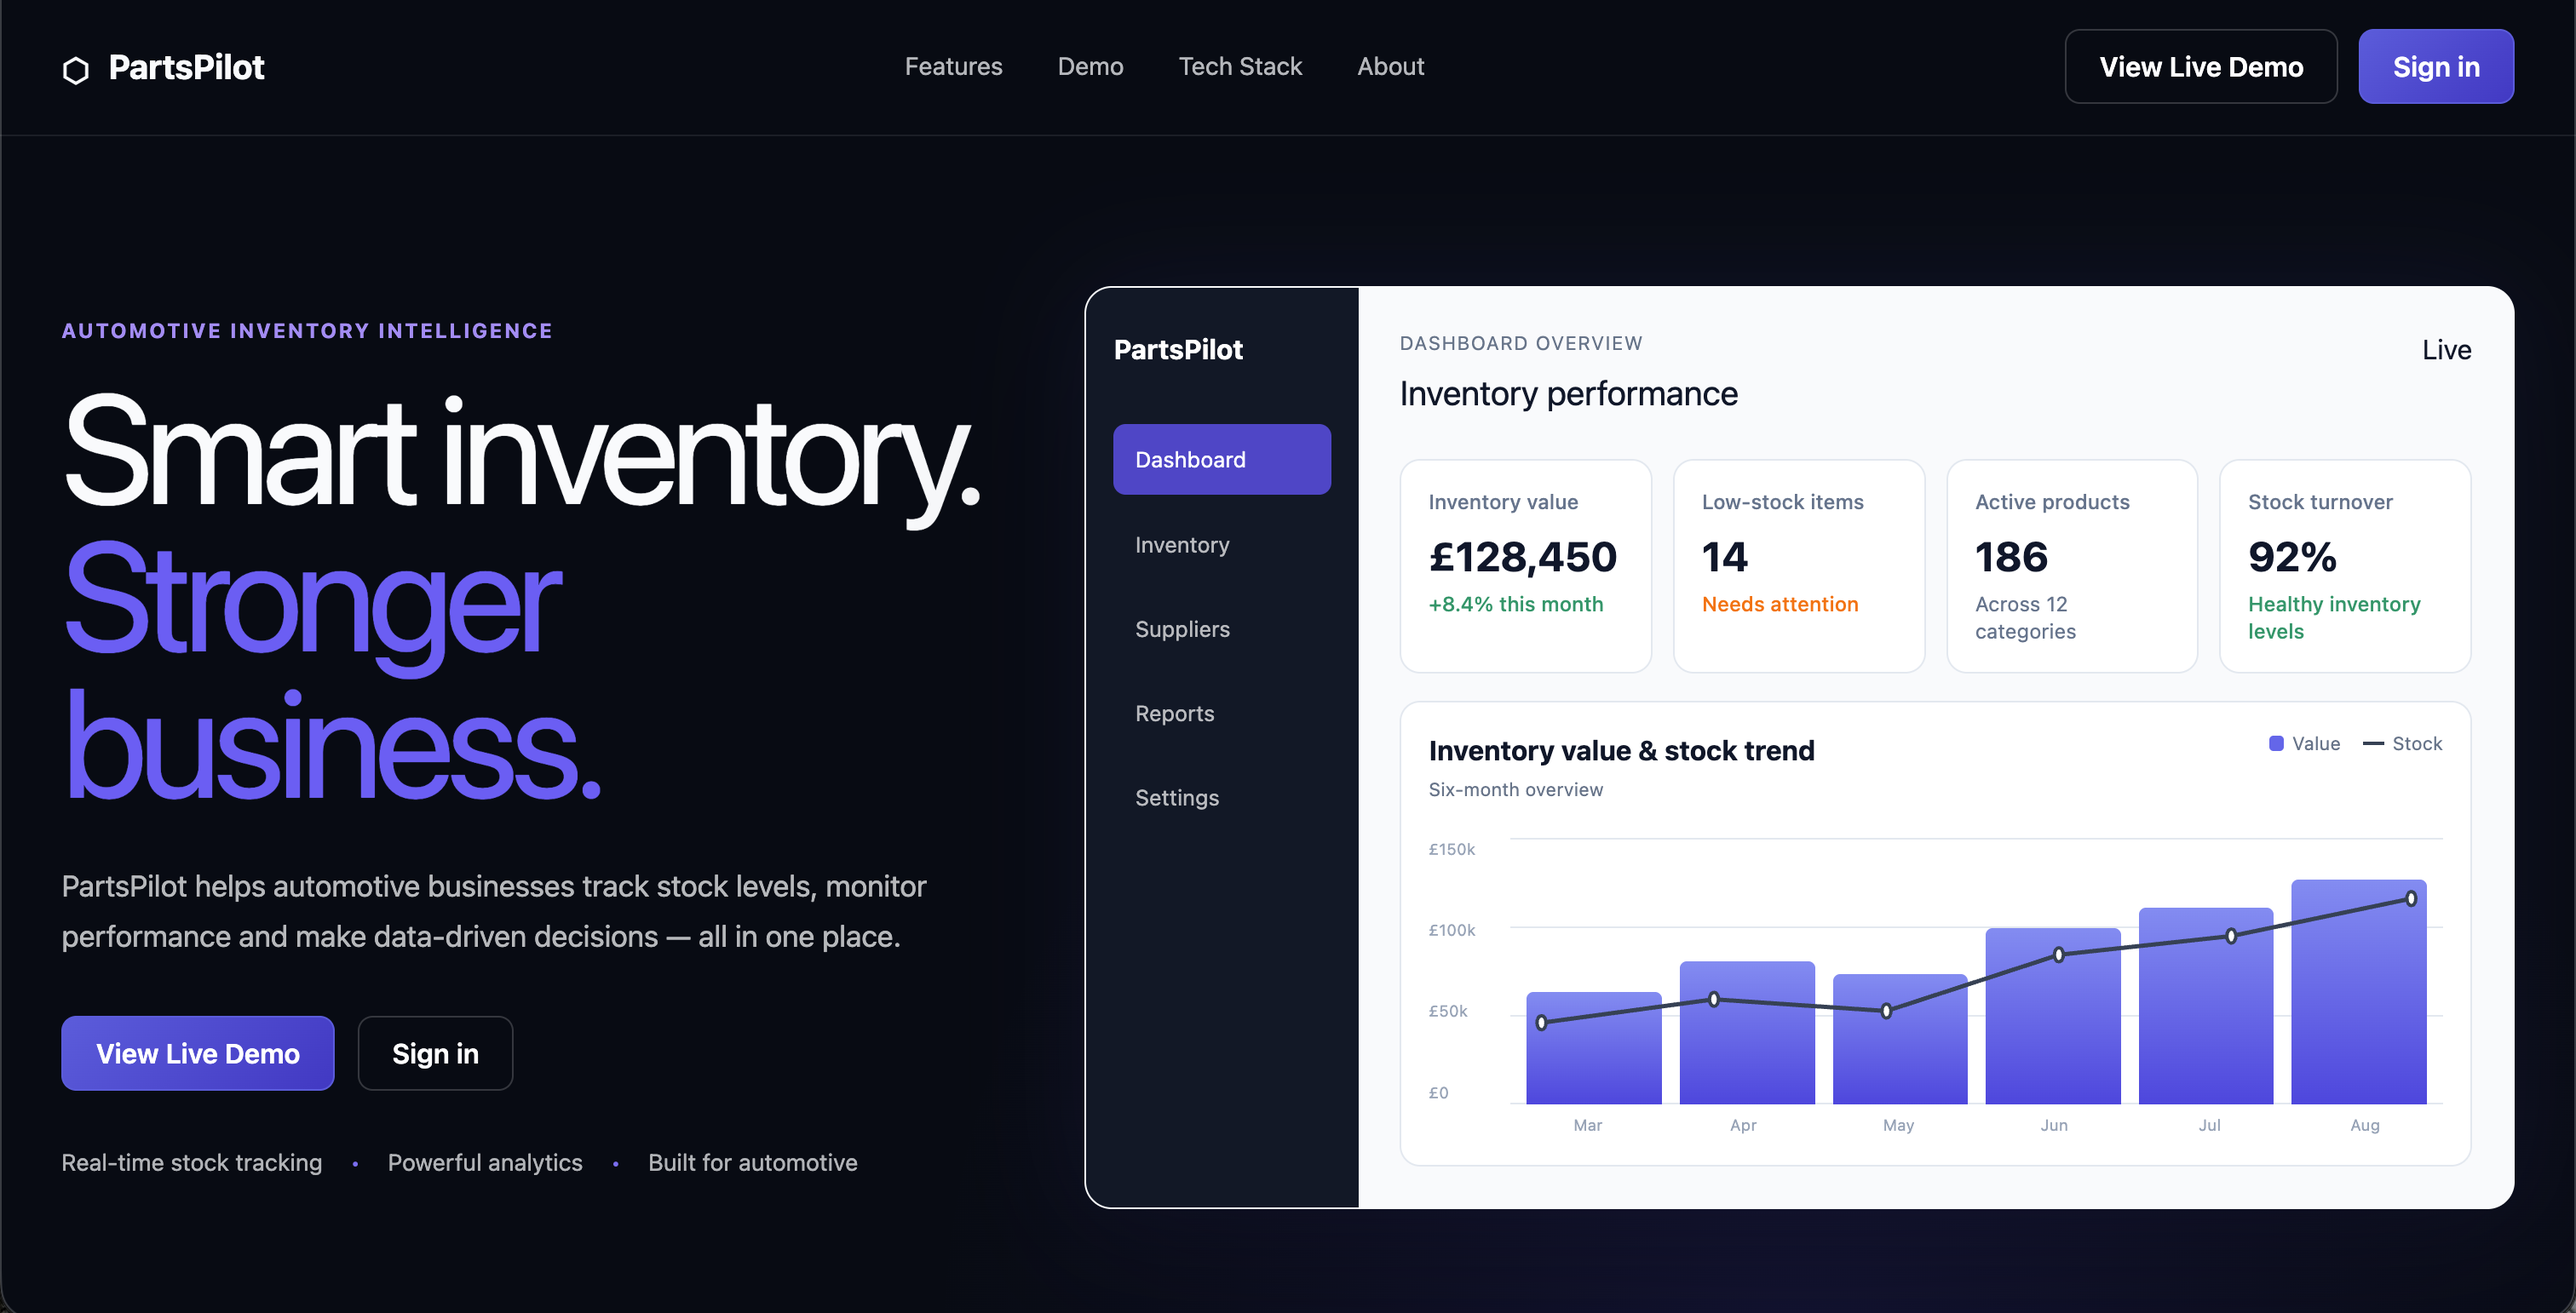
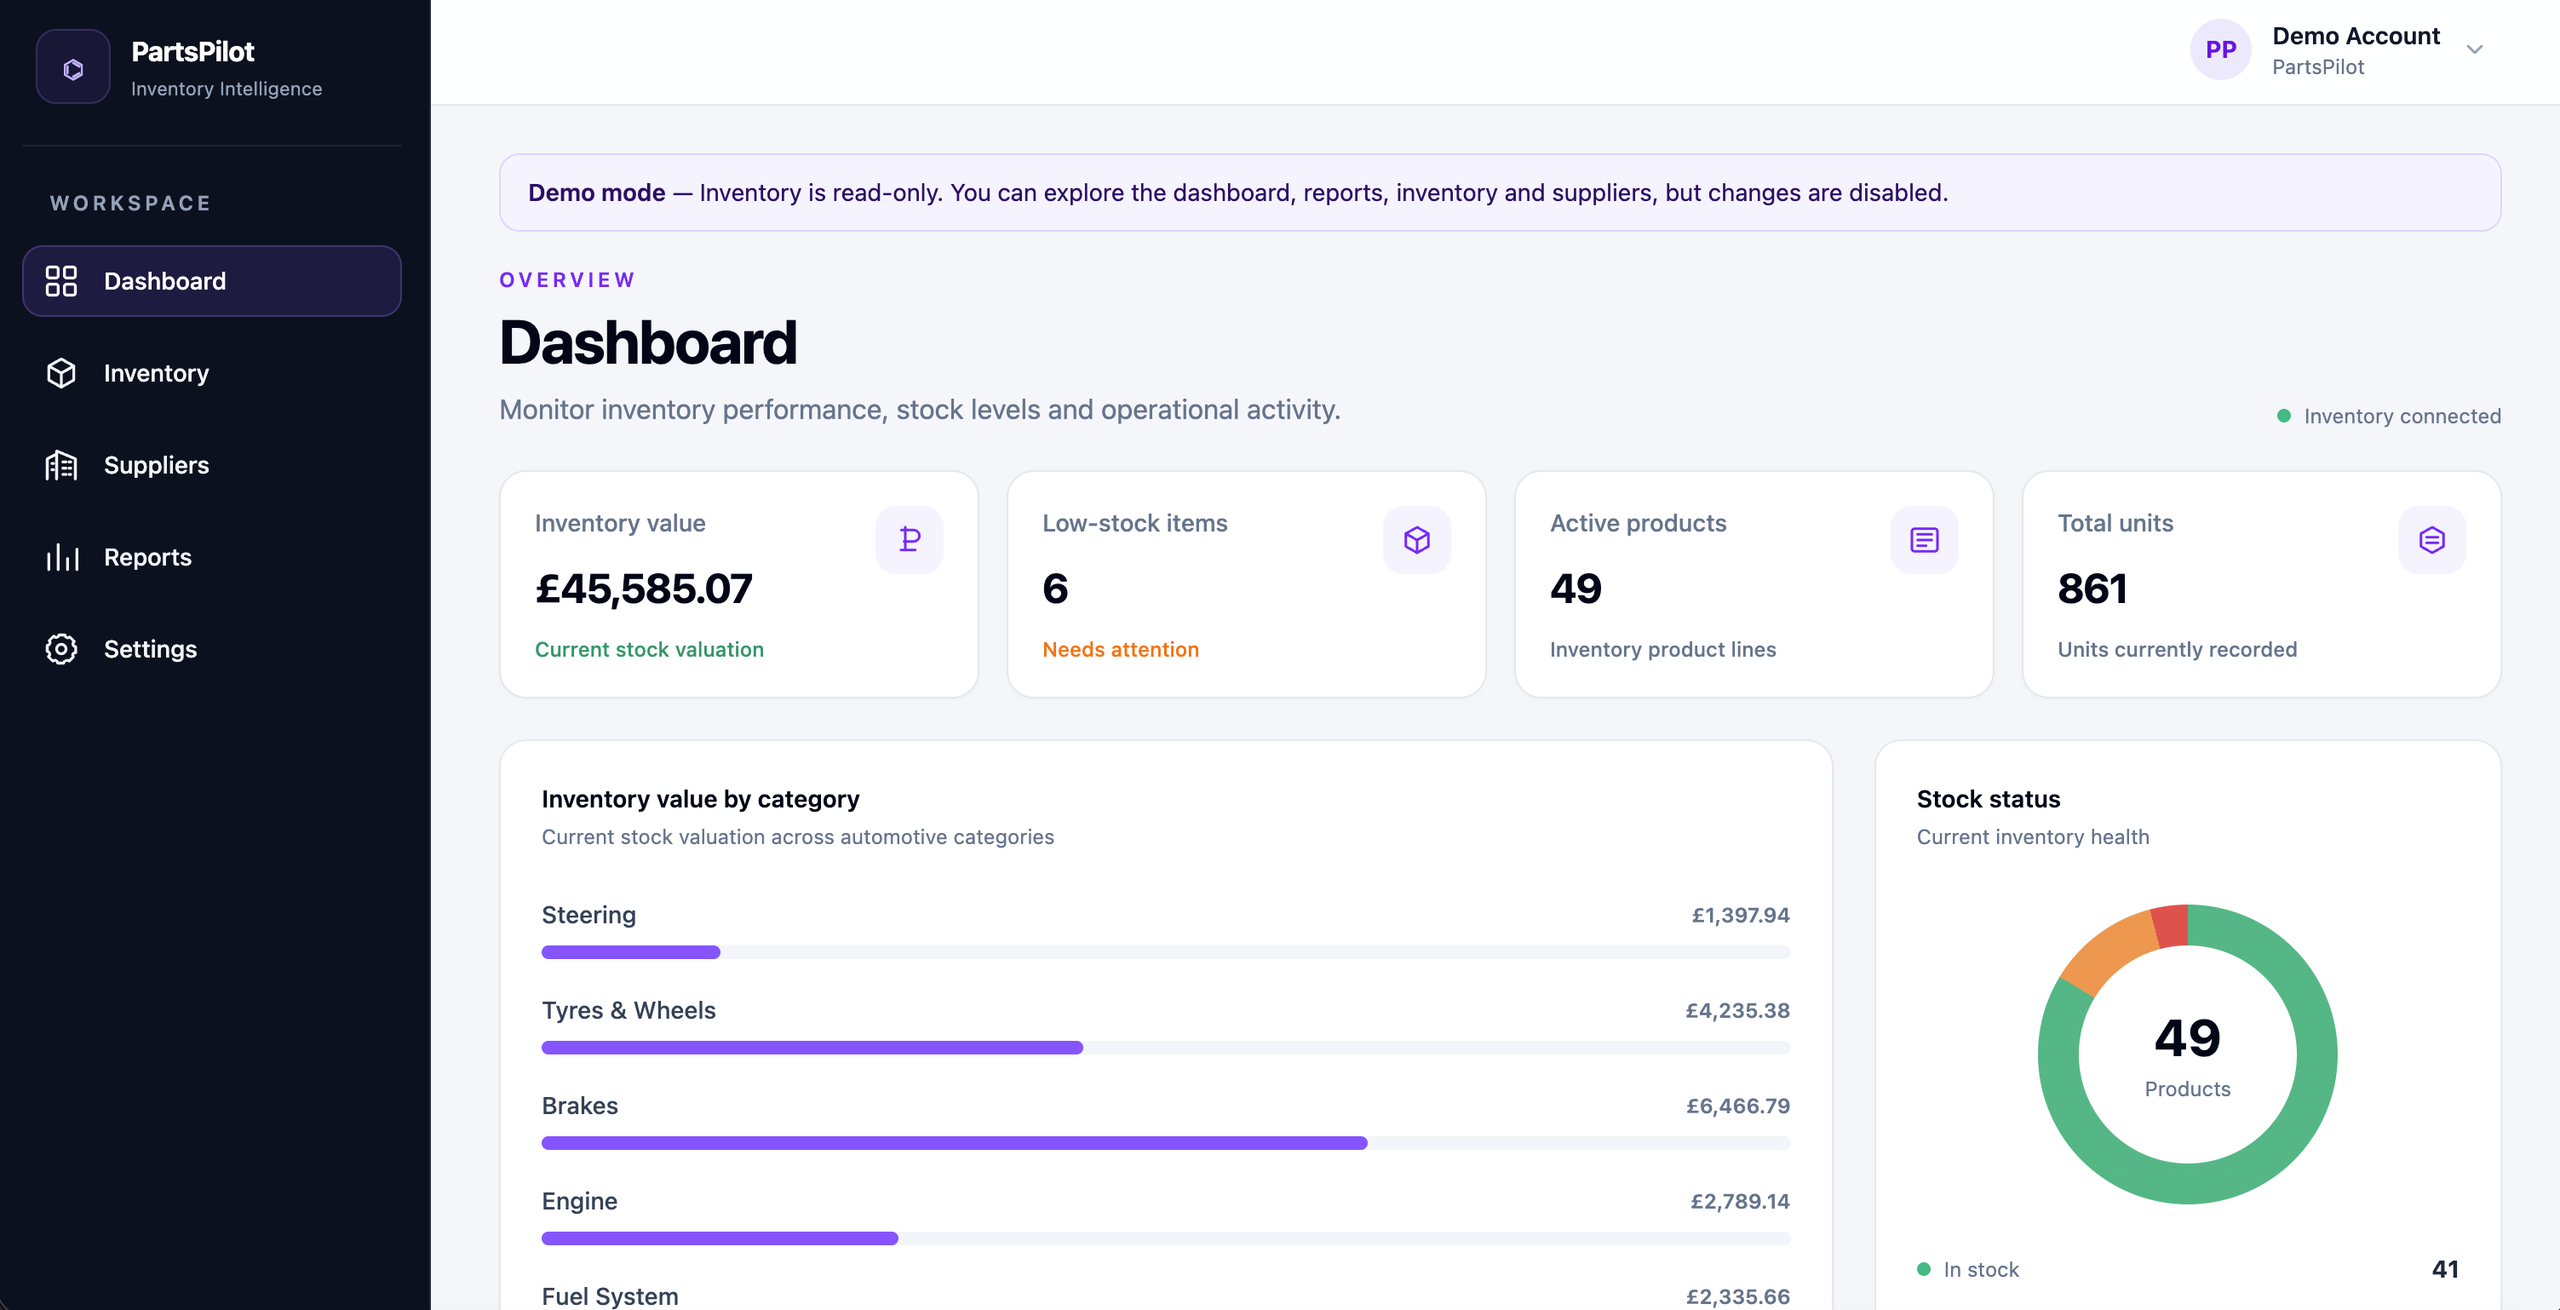
feat: update portfolio case studies

diff --git a/src/data/projects.js b/src/data/projects.js
@@ -41,7 +41,12 @@ export const projects = [
     github: "",
     demo: "https://www.irisoak.dev",
     image: "/screenshots/irisoak-homepage.png",
-    images: ["/screenshots/irisoak-homepage.png"],
+    images: [
+      "/screenshots/irisoak-homepage.png",
+      "/screenshots/irisoak-services.png",
+      "/screenshots/irisoak-selected-work.png",
+      "/screenshots/irisoak-contact-page.png",
+    ],
   },
 
   {
@@ -50,7 +55,7 @@ export const projects = [
     tier: "primary",
     title: "PartsPilot",
     category: "Automotive · Full-Stack",
-    status: "Feature-complete · Maintenance",
+    status: "Production demo · Maintenance",
     summary:
       "An automotive inventory platform with authenticated workflows, stock monitoring, reporting and operational analytics.",
     description:
@@ -70,6 +75,8 @@ export const projects = [
       "Power BI",
       "GitHub Actions",
       "Vercel",
+      "Railway",
+      "Production demo",
     ],
     tech: [
       "Next.js",
@@ -255,49 +262,6 @@ export const projects = [
       "/screenshots/pulse-health-endpoint.png",
     ],
   },
-
-  {
-    slug: "ai-hr-support-assistant",
-    featured: false,
-    tier: "primary",
-    title: "AI HR Support Assistant",
-    category: "AI Workflow · Full-Stack",
-    status: "Portfolio-ready MVP",
-    summary:
-      "An AI-assisted HR workflow for ticket classification, response drafting and administrative case management.",
-    description:
-      "A full-stack AI-assisted HR support dashboard built with React, TypeScript, FastAPI and PostgreSQL. Employees can submit HR tickets while a mock AI workflow classifies category and priority and prepares suggested response drafts. HR and administrative users can review, filter, sort and update cases through responsive dashboards.",
-    tags: [
-      "Full-Stack",
-      "AI Workflow",
-      "React",
-      "TypeScript",
-      "FastAPI",
-      "Python",
-      "PostgreSQL",
-      "SQLAlchemy",
-      "Alembic",
-      "Docker",
-      "GitHub Actions",
-    ],
-    tech: [
-      "React",
-      "TypeScript",
-      "FastAPI",
-      "PostgreSQL",
-      "SQLAlchemy",
-      "Alembic",
-      "Docker Compose",
-      "GitHub Actions",
-    ],
-    featuredTech: ["React", "FastAPI", "PostgreSQL"],
-    github:
-      "https://github.com/Iris408/ai-hr-support-assistant",
-    demo: "",
-    image: "/screenshots/ai-hr-support-assistant.png",
-    images: ["/screenshots/ai-hr-support-assistant.png"],
-  },
-
   {
     slug: "log-intelligence-analyzer",
     featured: false,
@@ -331,7 +295,7 @@ export const projects = [
     github:
       "https://github.com/Iris408/log-intelligence-analyzer",
     demo: "",
-    image: "/screenshots/log_intelligence_output.png",
+    image: "/screenshots/log_intelligence_docker.png",
     images: [
       "/screenshots/log_intelligence_output.png",
       "/screenshots/log_intelligence_docker.png",

diff --git a/src/components/case-study/ImageGallery.jsx b/src/components/case-study/ImageGallery.jsx
@@ -14,13 +14,13 @@ export default function ImageGallery({ images = [] }) {
   );
 
   return (
-    <div className="mt-8 grid gap-5 md:grid-cols-2">
+    <div className="mt-8 grid gap-6 md:grid-cols-2 lg:gap-8">
       {normalisedImages.map((image, index) => (
         <figure
           key={`${image.src}-${index}`}
           className={
             index === 0 && normalisedImages.length > 2
-              ? "md:col-span-2"
+              ? "lg:col-span-2"
               : ""
           }
         >
@@ -28,19 +28,19 @@ export default function ImageGallery({ images = [] }) {
             href={image.src}
             target="_blank"
             rel="noopener noreferrer"
-            className="group block overflow-hidden bg-[#E9E8E1] focus-visible:outline focus-visible:outline-2 focus-visible:outline-offset-4 focus-visible:outline-[#526A57]"
+            className="group flex min-h-0 items-center justify-center overflow-hidden border border-[#D8D4C8] bg-[#E9E8E1] focus-visible:outline focus-visible:outline-2 focus-visible:outline-offset-4 focus-visible:outline-[#526A57]"
           >
             <img
               src={image.src}
               alt={image.alt}
               loading="lazy"
               decoding="async"
-              className="h-64 w-full object-cover object-top transition duration-500 group-hover:scale-[1.01] md:h-80"
+              className="max-h-[22rem] w-full object-contain object-top transition duration-500 group-hover:scale-[1.01] md:max-h-[18rem] lg:max-h-[26rem]"
             />
           </a>
 
           {image.caption && (
-            <figcaption className="mt-3 text-sm text-[#69706B]">
+            <figcaption className="mt-3 text-sm leading-relaxed text-[#69706B]">
               {image.caption}
             </figcaption>
           )}

diff --git a/src/components/Hero.jsx b/src/components/Hero.jsx
@@ -38,25 +38,7 @@ export default function Hero() {
             </a>
           </div>
         </div>
-
-        <picture className="block w-full overflow-hidden">
-          <source
-            media="(max-width: 639px)"
-            srcSet="/images/portfolio-workspace-mobile.webp"
-          />
-
-          <source
-            media="(max-width: 1023px)"
-            srcSet="/images/portfolio-workspace-tablet.webp"
-          />
-
-           <img
-            src="/images/portfolio-workspace-desktop.webp"
-            alt="A calm software engineering workspace with a laptop, books and plants"
-            className="block h-auto w-full"
-          />
-          </picture>
-        </div>
+      </div>
     </section>
   );
 }
